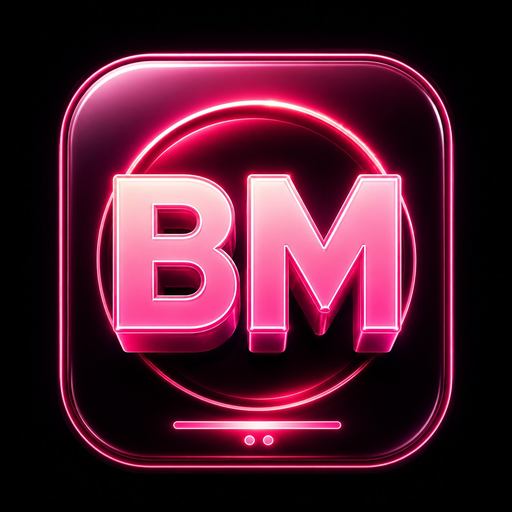
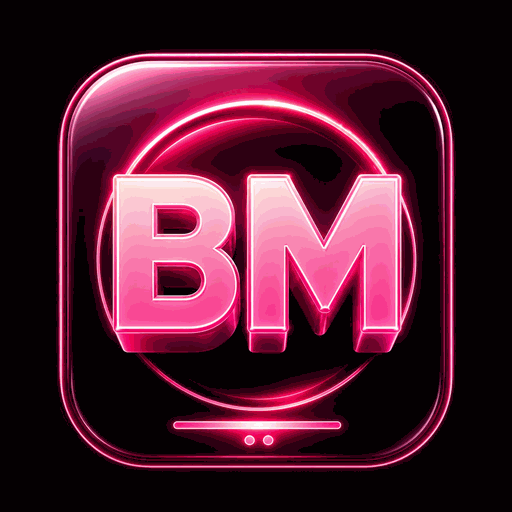
Add files via upload

diff --git a/sw.js b/sw.js
@@ -2,7 +2,7 @@
 // Le HTML est toujours récupéré du réseau en priorité (donc tout nouveau déploiement
 // GitHub Pages apparaît immédiatement), avec repli sur le cache si hors ligne.
 // Les fichiers statiques (icônes, polices) restent en cache-first pour la vitesse.
-const CACHE = 'fatloss-v5';
+const CACHE = 'fatloss-v7';
 
 self.addEventListener('install', e => {
   self.skipWaiting();